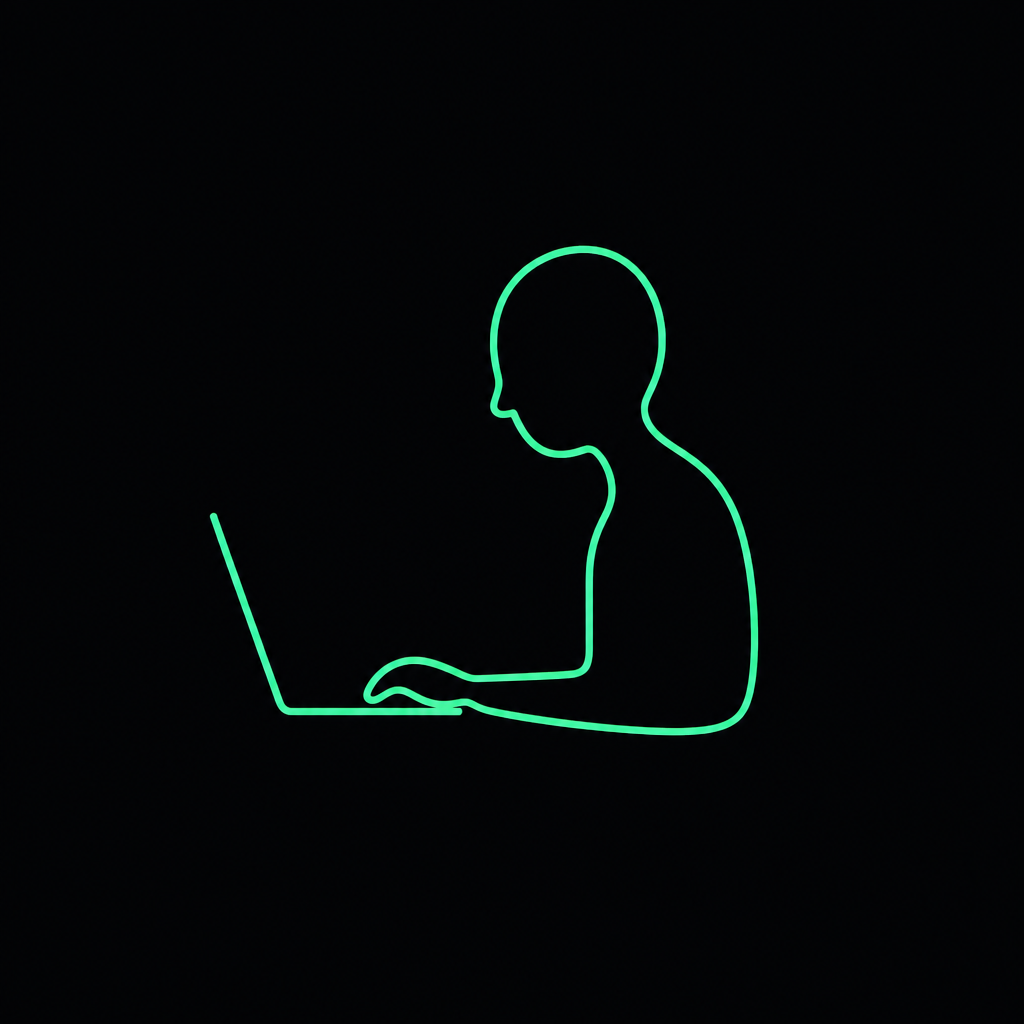
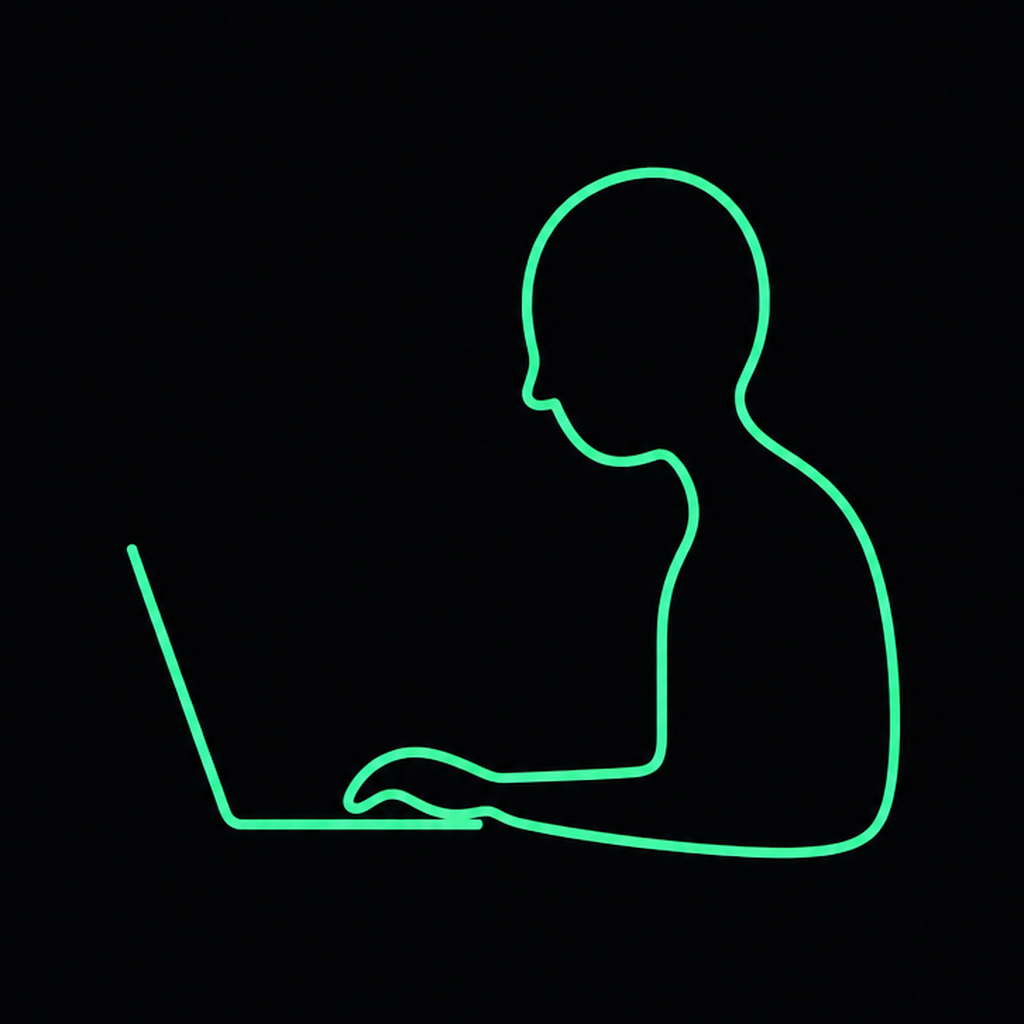
Scale the programmer mark so it reads on fullscreen desktops.
Crop the generated file to the figure and size it with the viewport, instead of leaving a 45px dark square.

diff --git a/src/styles/globals.css b/src/styles/globals.css
@@ -19,7 +19,8 @@
   --wide: 78rem;
   --radius: 18px;
   --ease: cubic-bezier(0.16, 1, 0.3, 1);
-  --header-h: 4.5rem;
+  --brand-mark: clamp(3.45rem, 2.15rem + 2.9vw, 6.5rem);
+  --header-h: calc(var(--brand-mark) + 1.9rem);
   --dock-h: 5.25rem;
   --glass: rgba(16, 21, 29, 0.82);
   --glow-soft: 0 16px 40px rgba(0, 0, 0, 0.32);
@@ -238,27 +239,28 @@ a {
   gap: 1rem;
   max-width: var(--wide);
   margin: 0 auto;
-  padding: 0.85rem var(--pad);
+  padding: 0.9rem var(--pad);
 }
 
 .brand {
   display: flex;
   flex-direction: row;
   align-items: center;
-  gap: 0.8rem;
+  gap: clamp(0.75rem, 0.45rem + 0.7vw, 1.15rem);
   text-decoration: none;
   min-width: 0;
 }
 
 .brand__mark {
-  width: 2.85rem;
-  height: 2.85rem;
+  width: var(--brand-mark);
+  height: var(--brand-mark);
   flex: 0 0 auto;
   display: block;
-  border-radius: 11px;
-  object-fit: cover;
+  border-radius: clamp(0.7rem, 20%, 1.2rem);
+  object-fit: contain;
+  object-position: center;
   background: #090b0f;
-  box-shadow: 0 0 0 1px rgba(53, 226, 161, 0.2);
+  box-shadow: 0 0 0 1px rgba(53, 226, 161, 0.3);
 }
 
 .brand__text {
@@ -1829,6 +1831,10 @@ a {
 }
 
 @media (max-width: 959px) {
+  html {
+    --header-h: calc(var(--brand-mark) + 4.05rem);
+  }
+
   .site-header .btn-telegram {
     display: none;
   }

diff --git a/src/components/Header.tsx b/src/components/Header.tsx
@@ -13,8 +13,9 @@ export function Header() {
             className="brand__mark"
             src={publicUrl(site.brandMark)}
             alt=""
-            width={512}
-            height={512}
+            width={1024}
+            height={1024}
+            sizes="(min-width: 1600px) 6.5rem, (min-width: 960px) 5rem, 3.45rem"
             decoding="async"
           />
           <span className="brand__text">

diff --git a/AGENTS.md b/AGENTS.md
@@ -26,4 +26,4 @@
 - Site copy and links live in `src/content/site.ts` and `src/content/projects.ts`.
 - Case media belongs in `public/media/<project>/`; videos are added later by the owner.
 - Static legal pages: `public/privacy.html`, `public/security.html`, `public/terms.html`. Hosting named there as GitHub Pages. Operator contact: `dvv.spd@bk.ru`.
-- GitHub Pages deploy: `.github/workflows/pages.yml`. Custom-domain DNS cheat sheet: `deploy/dns.txt`. Live GitHub user/repo: `ozharov164-glitch/portfolio`.
+- Header brand mark is the AI-generated contour (`public/media/brand/programmer.webp`): crop tight to the figure, scale with `clamp` so it stays readable on fullscreen desktop. Do not replace it with a hand-drawn SVG.
